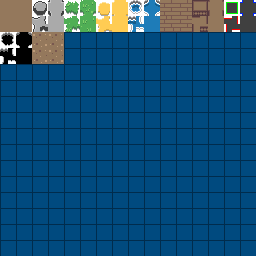
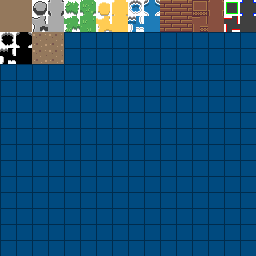
Improve wood sprite

Changed region(s): [[0.625, 0.0, 0.875, 0.125]]

diff --git a/Sources/AndroidPlatform/MainGameActivity.cs b/Sources/AndroidPlatform/MainGameActivity.cs
@@ -1,0 +1,35 @@
+using Android.App;
+using Android.Content.PM;
+using Android.OS;
+using Android.Views;
+using Hevadea.Framework;
+using Hevadea.Scenes;
+using Maker.Rise;
+using Microsoft.Xna.Framework;
+
+namespace AndroidPlatform
+{
+    [Activity(Label = "Hevadea"
+        , MainLauncher = true
+        , Icon = "@drawable/icon"
+        , Theme = "@style/Theme.Splash"
+        , AlwaysRetainTaskState = true
+        , LaunchMode = LaunchMode.SingleInstance
+        , ScreenOrientation = ScreenOrientation.UserLandscape
+        , ConfigurationChanges = ConfigChanges.Orientation | ConfigChanges.Keyboard | ConfigChanges.KeyboardHidden | ConfigChanges.ScreenSize)]
+    public class MainGameActivity : AndroidGameActivity
+    {
+        protected override void OnCreate(Bundle bundle)
+        {
+            base.OnCreate(bundle);
+            var metrics = Resources.DisplayMetrics;
+            var platform = new RiseAndroidPlatform(metrics.WidthPixels, metrics.HeightPixels);
+
+            Rise.Initialize(platform);
+  
+            SetContentView((View)Rise.MonoGame.Services.GetService(typeof(View)));
+            Rise.Start(new SplashScene());
+        }
+    }
+}
+

diff --git a/Sources/Hevadea.Framework/Debug/DebugManager.cs b/Sources/Hevadea.Framework/Debug/DebugManager.cs
@@ -24,6 +24,7 @@ namespace Hevadea.Framework.Debug
             _spriteBatch.DrawString(Rise.Ui.DebugFont, 
             $@"Hevadea
 Running on platform: '{Rise.Platform.GetPlatformName()}'
+Screen: {Rise.Graphic.GetWidth()}, {Rise.Graphic.GetHeight()} 
 {Rise.Scene?.GetCurrentScene()?.GetDebugInfo() ?? ""}", new Vector2(16, 16), Color.White);
             Rise.Pointing.DrawDebug(_spriteBatch);
             _spriteBatch.End();
